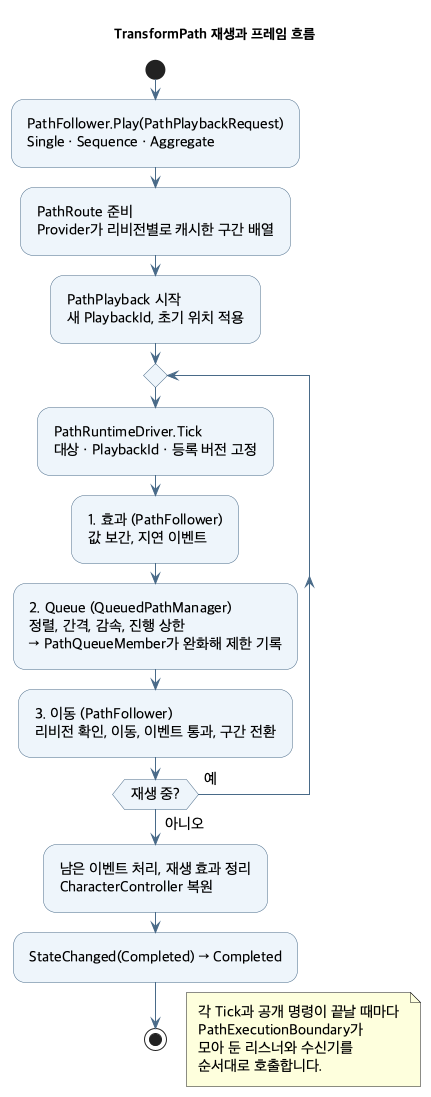
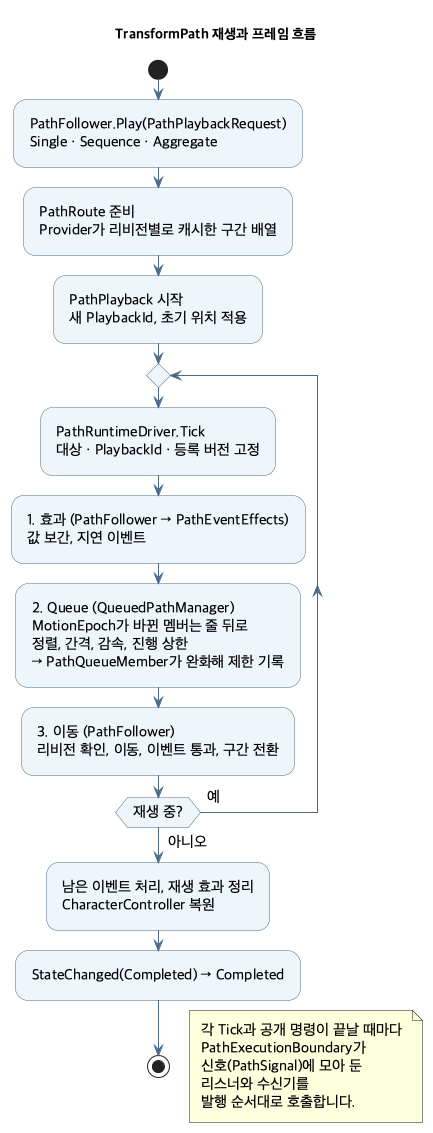
문서와 UML에 효과 분리, 신호 Boundary, MotionEpoch, Editor 구조를 반영

diff --git a/ToyProject/Assets/_TransformPath/Docs/TechnicalNotes.md b/ToyProject/Assets/_TransformPath/Docs/TechnicalNotes.md
@@ -28,7 +28,7 @@
 
 ## 수명 규칙
 
-- **실행 순서:** `PathRuntimeDriver`가 매 프레임 세 단계를 실행합니다. 효과(Follower의 값 보간과 지연 이벤트) → Queue(Manager의 계산과 멤버의 제한 기록) → 이동(Follower). 같은 단계에서는 등록 순서를 따릅니다.
+- **실행 순서:** `PathRuntimeDriver`가 매 프레임 세 단계를 실행합니다. 효과(Follower의 값 보간과 지연 이벤트) → Queue(Manager의 계산과 멤버의 제한 기록) → 이동(Follower). Driver는 단계마다 목록을 따로 두어 Follower는 효과와 이동, Manager는 Queue 단계에서만 순회합니다. 같은 단계에서는 등록 순서를 따릅니다.
 - **프레임 고정:** Tick 시작에 대상, PlaybackId, 등록 버전을 복사하고 실행 직전에 다시 비교합니다. 그 프레임에 등록하거나 재생이 바뀐 대상은 다음 프레임부터 실행합니다.
 - **외부 코드:** 공개 명령과 Tick은 `PathExecutionBoundary.Enter()`로 작업을 엽니다. 가장 바깥 작업이 끝나면 쌓인 리스너와 수신기를 선입선출로 호출합니다. 호출 중 생긴 알림은 큐 끝에 붙어 중첩되지 않습니다. 호출 직전에 구독 여부를 다시 확인하고, 한 번에 10만 건을 넘으면 오류를 기록하고 남은 알림을 버립니다. 알림마다 `PathSignal`(인자 0~2개)이 리스너 배열과 대기 중인 인자를 갖고, Boundary는 어떤 신호가 다음인지 순서만 담은 정적 큐 하나를 둡니다. 여러 Follower와 Queue 사이의 발행 순서를 지키려면 순서 큐가 하나여야 하기 때문입니다. 발행 시점의 리스너 배열을 함께 담으므로 발행 뒤에 구독한 리스너는 그 알림을 받지 않습니다.
 - **PlaybackId:** 재생을 시작할 때마다 새로 발급하고 Seek와 Pause에서는 유지합니다. 재생이 끝나면 0입니다.
@@ -105,6 +105,9 @@
 
 - `PathEditorChangeMonitor`가 Hierarchy, 속성, Undo/Redo, 리로드 변경을 모으고, `PathTrackedTargets`가 Linker별 대상 목록을 그 변경에서만 다시 찾습니다. `MultiPathAutoLinker`(연결점)와 `PathWaypointSyncLinker`(그룹 동기화)는 동기화 규칙만 가집니다. Transform 이동만으로는 대상 캐시를 지우지 않아 이전 위치와 비교할 수 있습니다.
 - `PathDataScenePreviewCache`는 런타임의 `PathPolyline`을 만들어 살아 있는 경로의 미리보기를 재사용하고, 삭제된 경로의 항목을 지웁니다. PlayMode 전환과 리로드에서 비웁니다.
+- Inspector 클래스는 배치만 맡습니다. `PathDataEditor`는 `PathDataGizmoDrawer`(Scene View 미리보기)와 `PathPointTools`(지면 스냅, 점 생성, 자손에서 갱신)를, `MultiPathDataEditor`는 `PathSegmentListDrawer`(구간 목록), `PathSegmentMovementPanel`(선택 구간 이동, 일괄 이동 설정), `PathDrawingTools`(미리보기 크기, 구별 색)를 씁니다.
+- 연결점과 웨이포인트 그룹은 같은 규칙(`PathPointSync`)을 씁니다. 스냅샷보다 가장 많이 움직인 점을 기준으로 나머지를 옮기고, 동률이면 앞 멤버를 따릅니다. 연결점은 [다음 경로 시작점, 이전 경로 끝점] 두 멤버 그룹이라 동률이면 시작점을 따릅니다. 이미 같은 위치면 옮기지 않습니다.
+- 미리보기 설정 필드는 Player에서도 직렬화합니다. Editor와 Player의 데이터 레이아웃이 같아야 하기 때문이며, Player에서는 읽지 않습니다.
 - 이동 설정 UI와 Rebuild·이벤트 정렬 도구는 `PathInspectorGUI`에 있습니다. `MultiPathData`의 미리보기 크기 적용과 구별 색 지정은 버튼으로만 실행합니다.
 - Scene View는 이벤트 위치와 이름을 표시만 합니다. 이벤트 진행률은 Inspector에서 편집합니다.
 
@@ -129,4 +132,4 @@ java -Djava.awt.headless=true -Djava.io.tmpdir="$TMPDIR" -jar plantuml-1.2024.6.
   transformpath-frame.puml transformpath-structure.puml transformpath-queue.puml
 ```
 
-임시 폴더에 쓸 수 없으면 종료 코드 0으로 0바이트 PNG가 나오니 파일 크기를 확인합니다. 한글은 macOS의 `Apple SD Gothic Neo` 글꼴로 렌더링합니다.
+시스템에 Java가 없으면 Unity에 들어 있는 JDK(`<Unity.app>/../PlaybackEngines/AndroidPlayer/OpenJDK/bin/java`)를 씁니다. 임시 폴더에 쓸 수 없으면 종료 코드 0으로 0바이트 PNG가 나오니 파일 크기를 확인합니다. 한글은 macOS의 `Apple SD Gothic Neo` 글꼴로 렌더링합니다.
